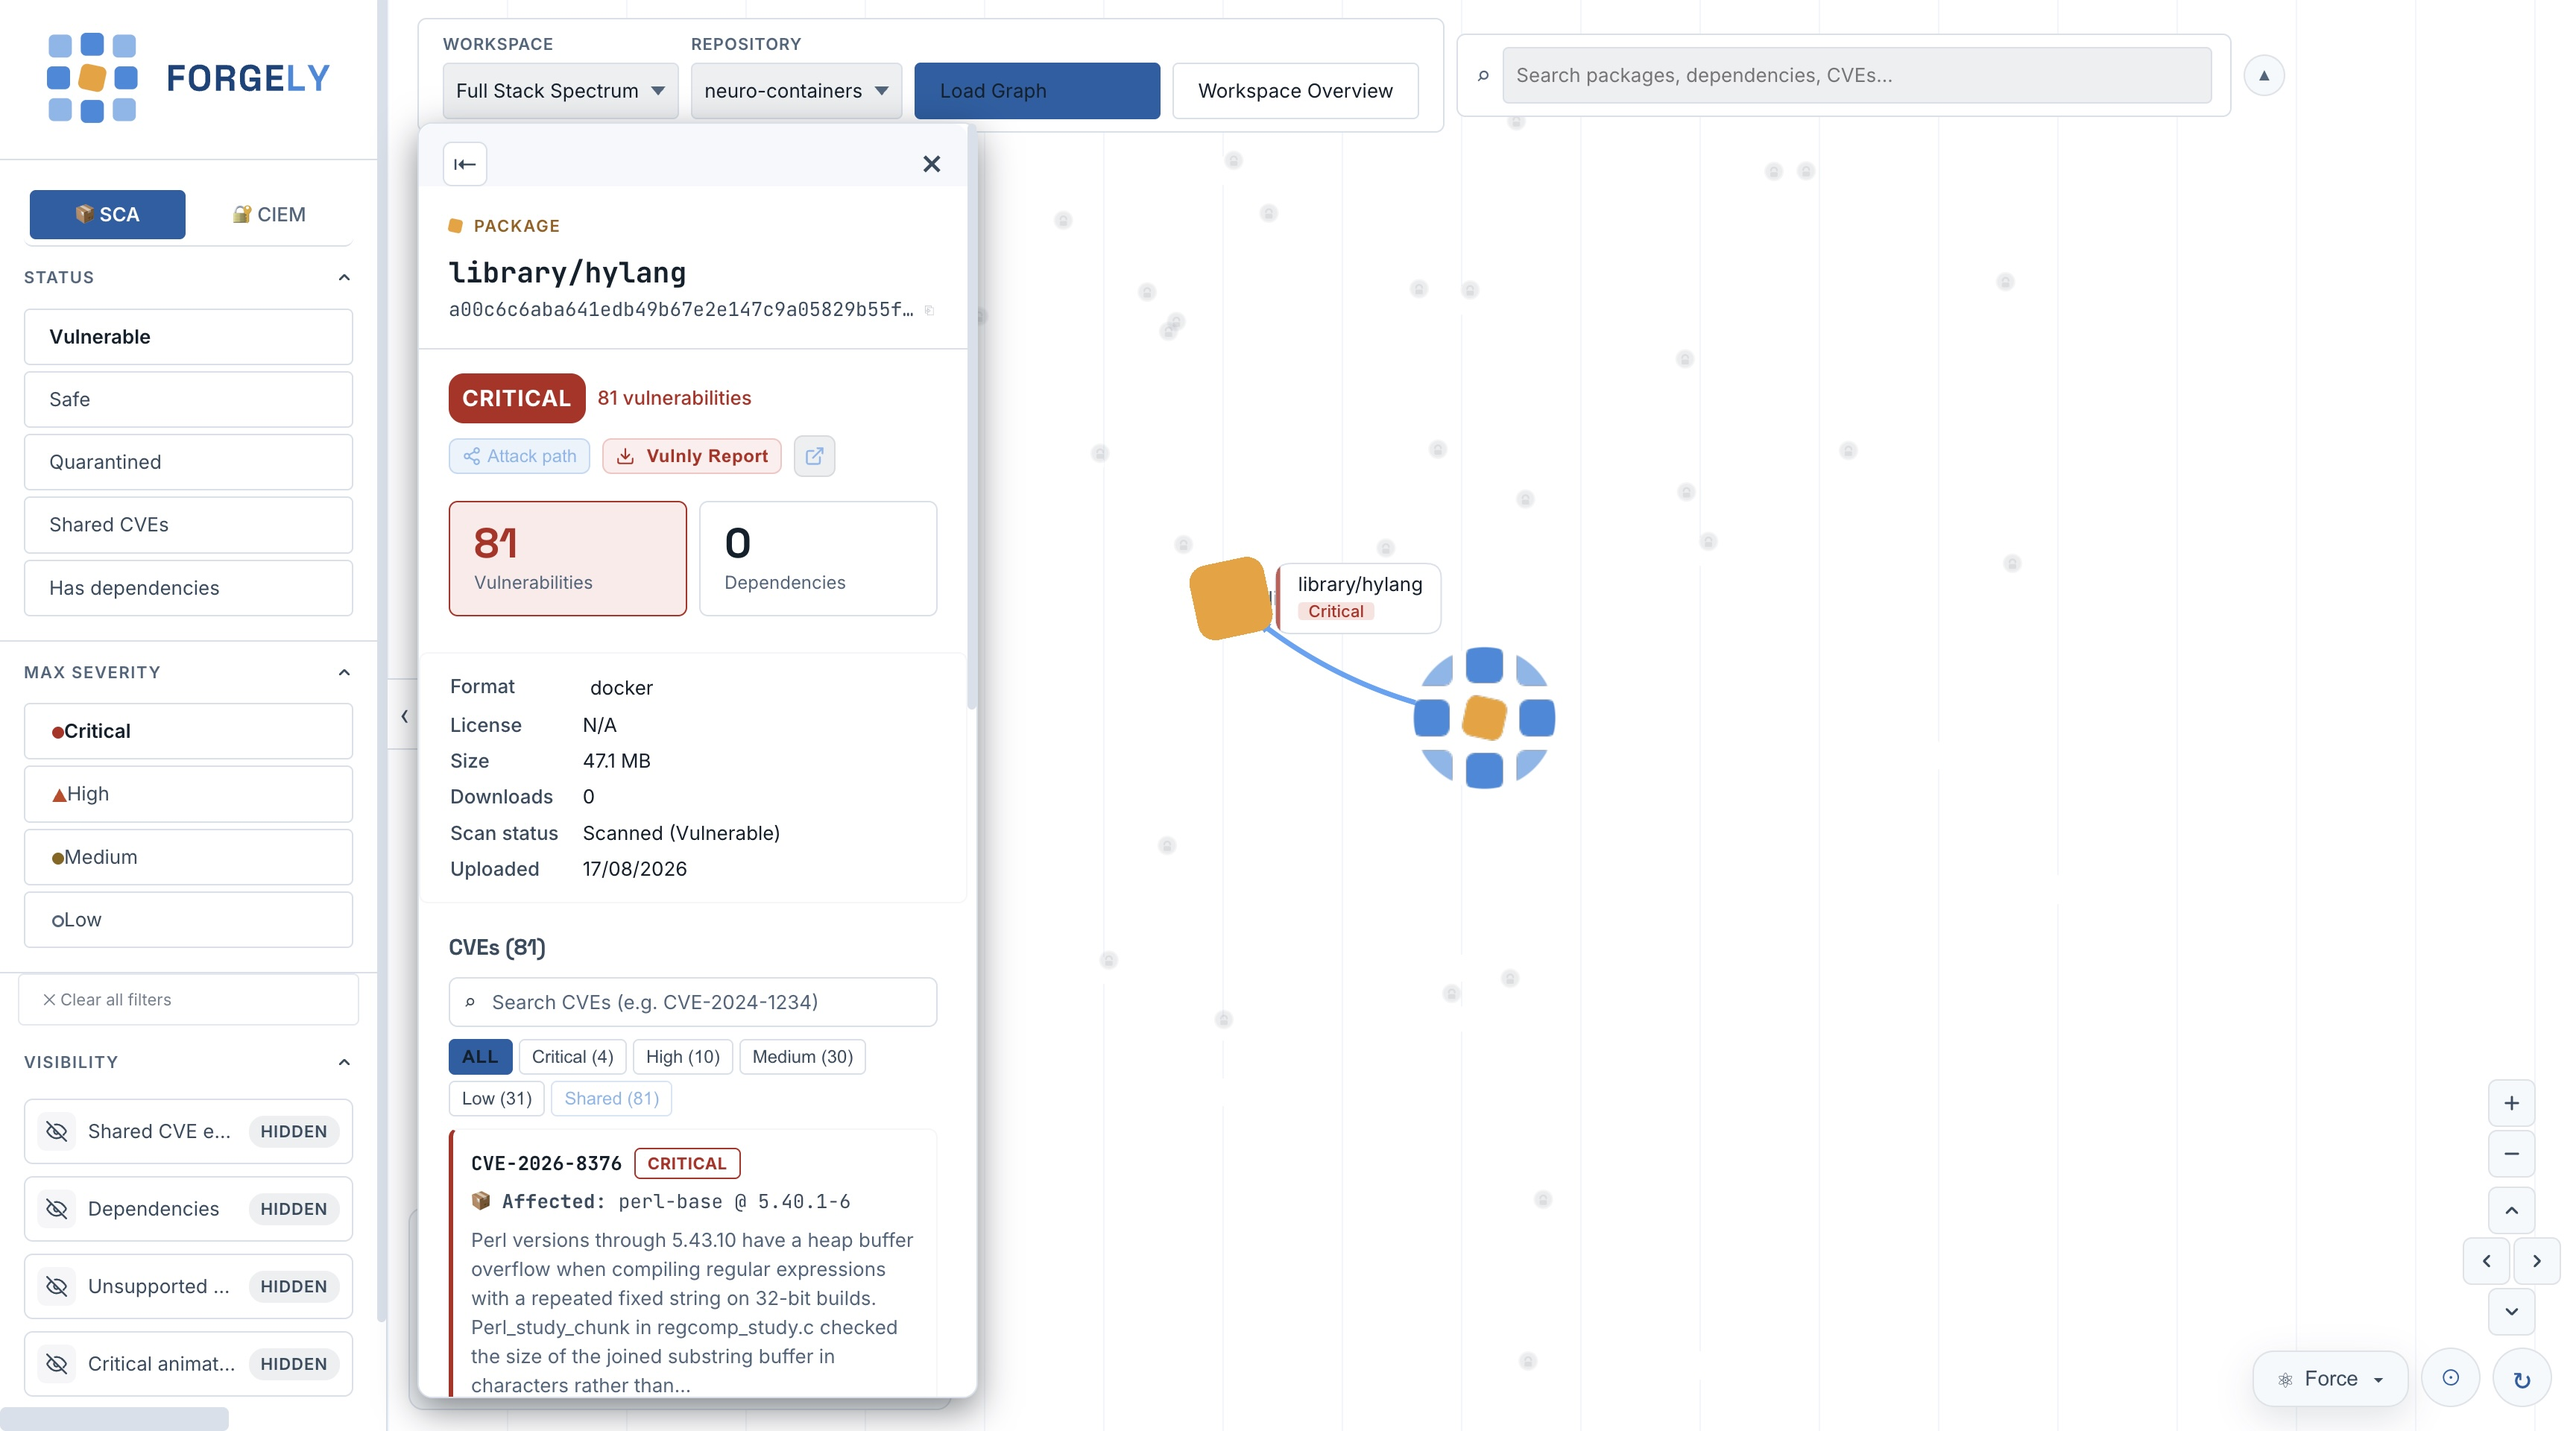
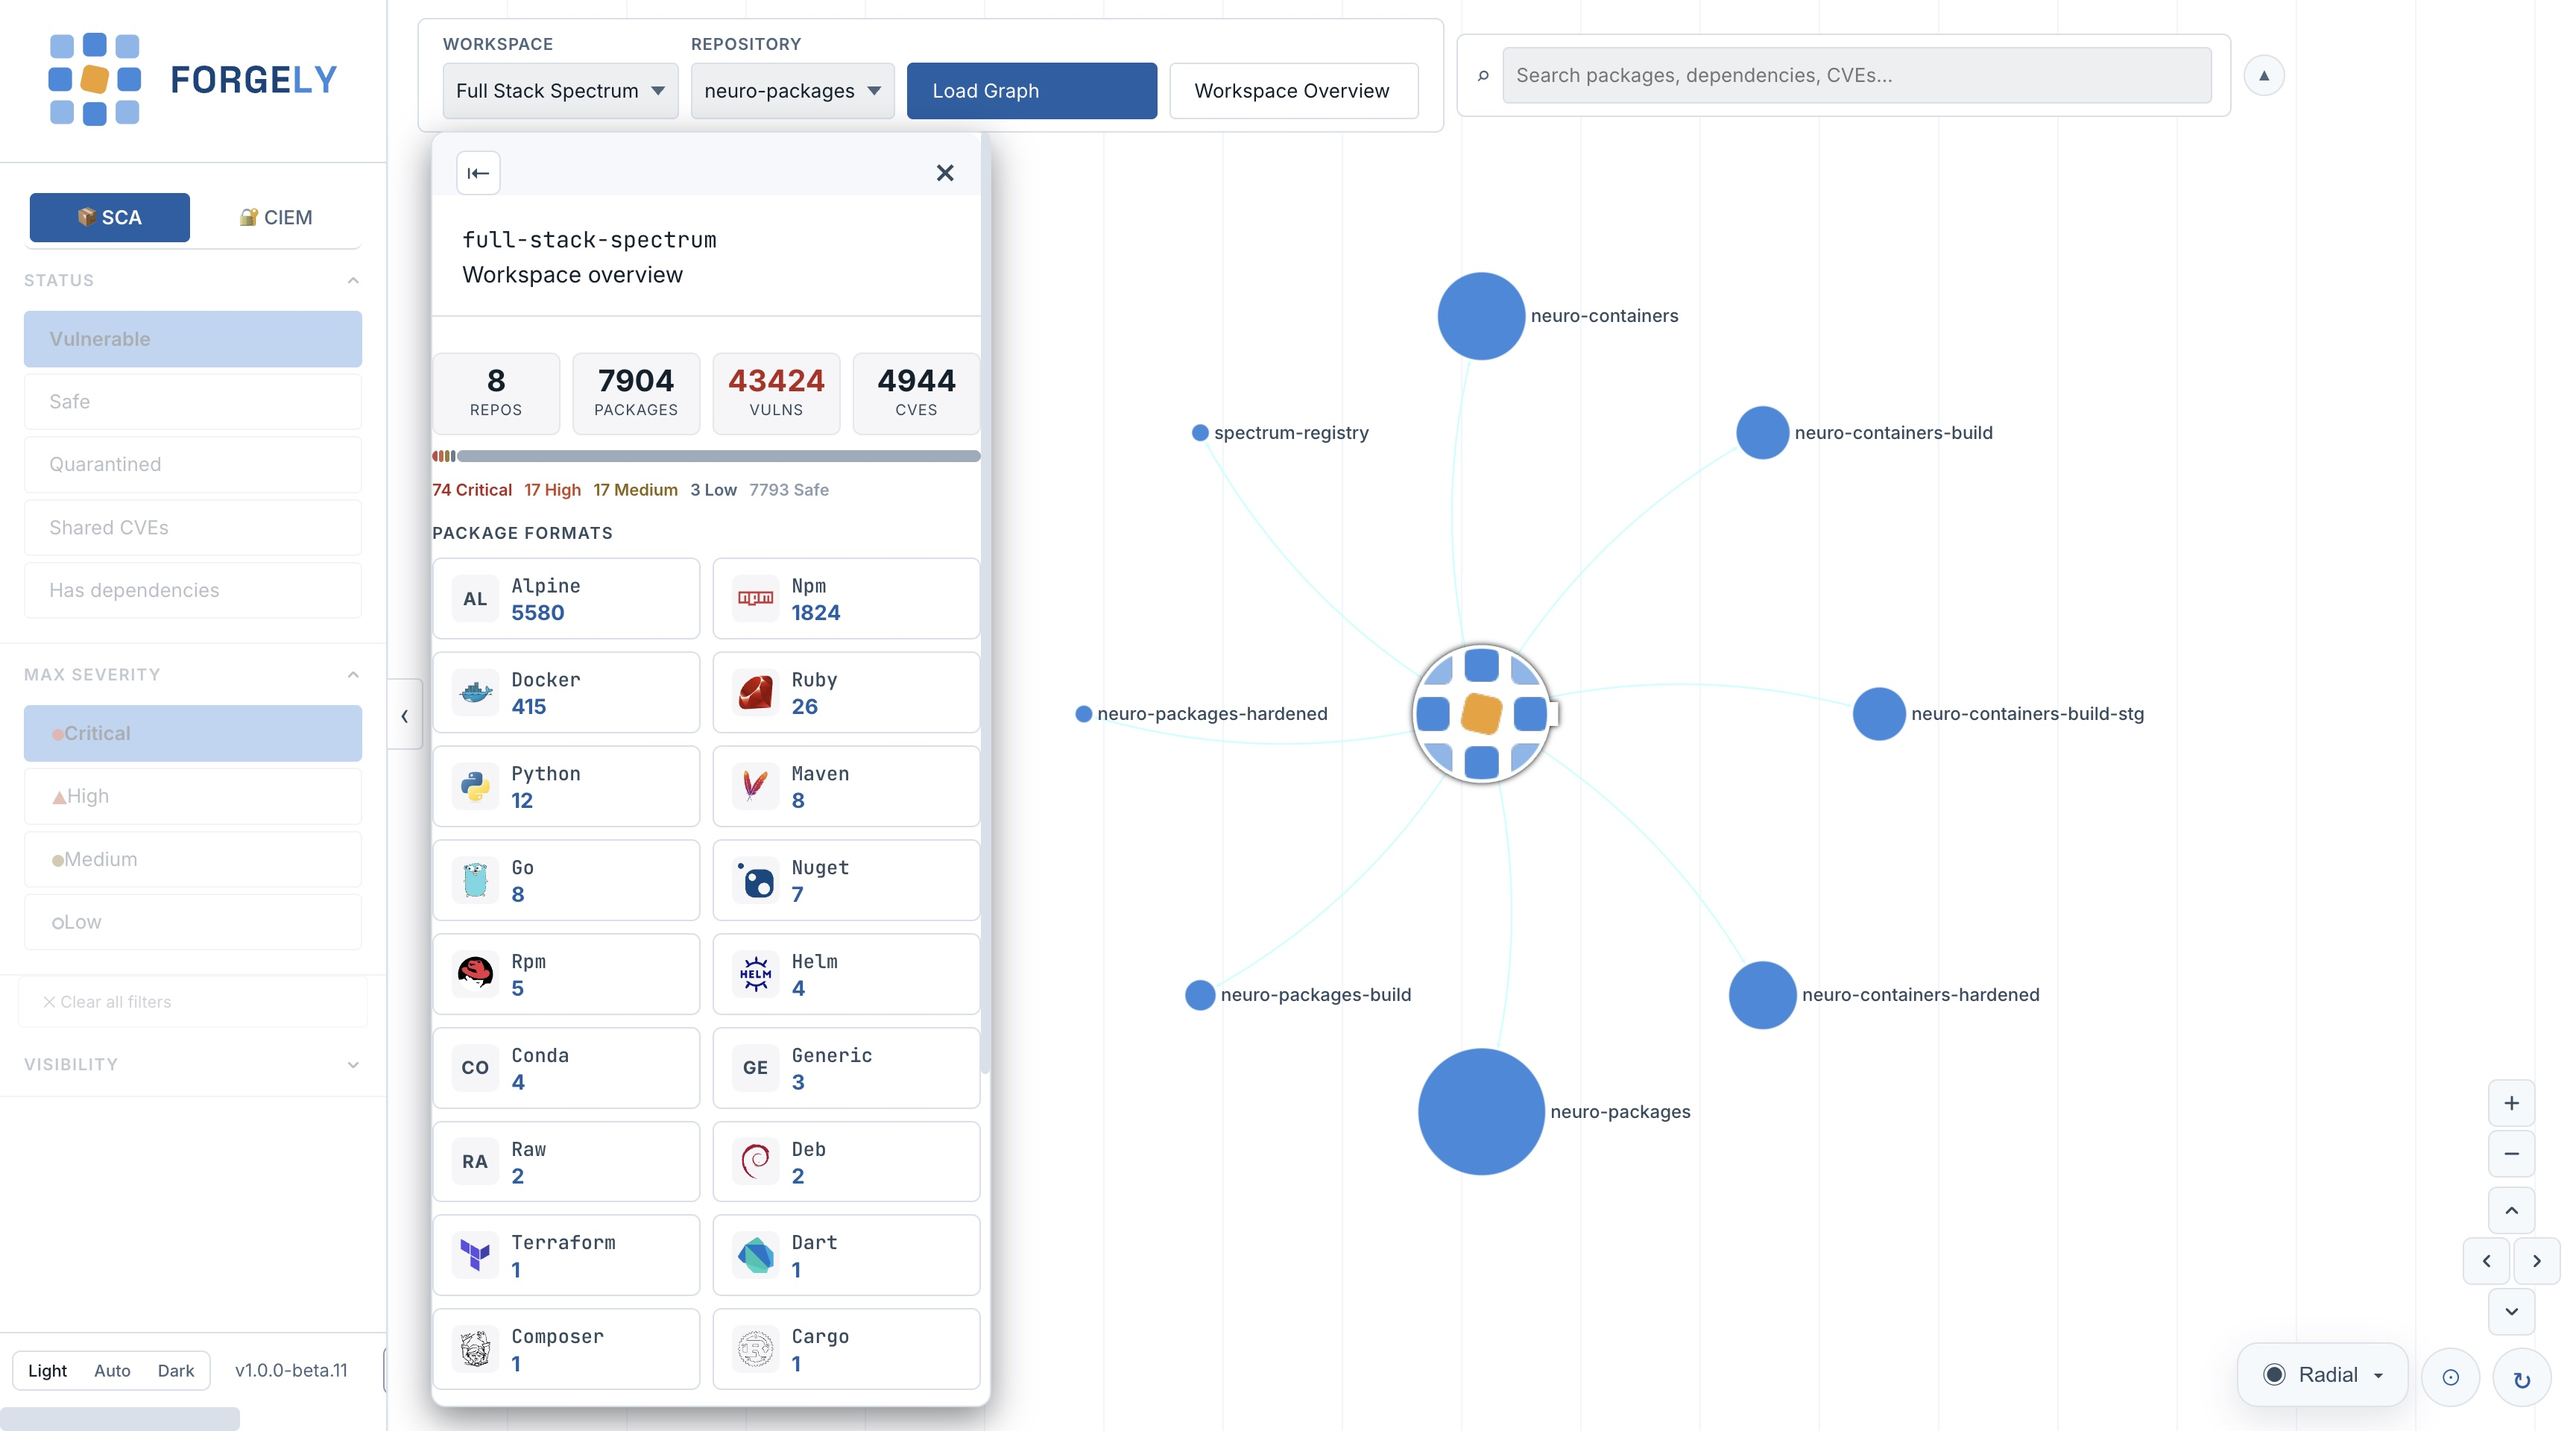
fix: use the light loader variant in light mode
The reversed loader draws its four orthogonal cells in white for dark
backgrounds; on the light canvas those disappear and the ripple loses
most of its shape. Both variants ship and swap via the same
logo-light/logo-dark classes as the nav lockup.

diff --git a/frontend/src/components/LoadingIndicator.tsx b/frontend/src/components/LoadingIndicator.tsx
@@ -166,10 +166,21 @@ export default function LoadingIndicator({ variant = "packages", progress }: Pro
           §7 restricts this to graph-shaped work over a second, which a build
           is: 19s cold, and the phase list below is showing real progress
           throughout. A plain spinner belongs anywhere shorter. */}
+      {/* One loader per theme, swapped in CSS. The reversed file draws its
+          neighbour cells in white for dark backgrounds; on a light canvas
+          those cells disappear and the ripple loses most of its shape. */}
+      <img
+        src="/forgely-loader.svg"
+        alt=""
+        className="loading-loader logo-light"
+        width={96}
+        height={96}
+      />
       <img
         src="/forgely-loader-reversed.svg"
         alt=""
-        className="loading-loader"
+        aria-hidden="true"
+        className="loading-loader logo-dark"
         width={96}
         height={96}
       />

diff --git a/frontend/src/index.css b/frontend/src/index.css
@@ -5610,8 +5610,9 @@ td, th,
 }
 
 
-/* One lockup per theme. The reversed file sets the wordmark in white, so on a
-   light sidebar it disappeared into the background. */
+/* Theme-paired artwork: the reversed files draw in white for dark backgrounds
+   and vanish on a light one. Used by the nav lockup and the loader.
+   Light is the default so the pair works even if data-theme is somehow absent. */
 .logo-dark { display: none; }
 [data-theme="dark"] .logo-light { display: none; }
 [data-theme="dark"] .logo-dark { display: block; }
